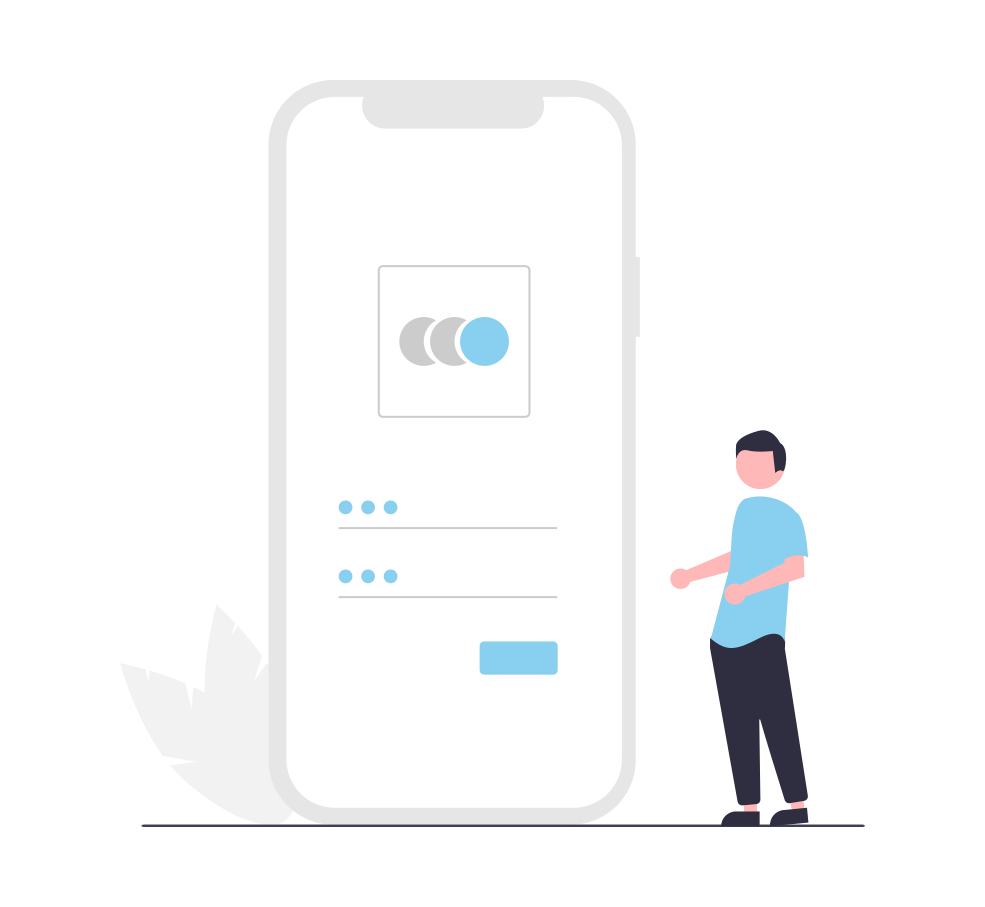
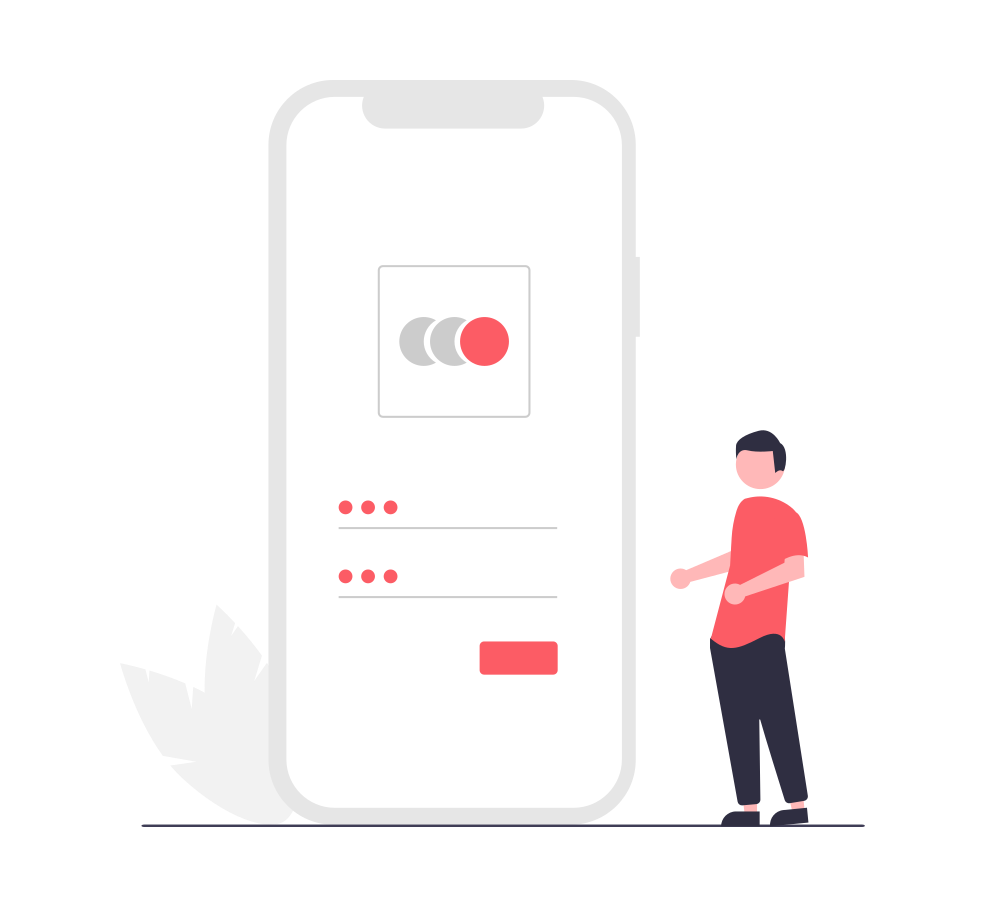
Fixed Some problems

diff --git a/components/BottomNav.js b/components/BottomNav.js
@@ -1,0 +1,127 @@
+import { StyleSheet, Text, View, TouchableOpacity } from 'react-native'
+import React from 'react'
+import { Icon } from "react-native-elements";
+import { useNavigation, useRoute } from '@react-navigation/native'
+import { auth } from '../firebase';
+
+const BottomNav = () => {
+    const navigation = useNavigation();
+    const route = useRoute();
+    return (
+        <View style={styles.container}>
+            <View style={styles.bottomNav}>
+                <TouchableOpacity style={styles.bottomNavItem}>
+                    <Icon
+                        style={styles.icon}
+                        color={route.name != "Home" ?
+                            '#000' :
+                            '#ff7f77'
+                        }
+                        reverseColor
+                        name="home"
+                        type="font-awesome"
+                        size={35}
+                        onPress={() => {
+                            if (route.name != "Home") {
+                                navigation.replace("Home")
+                            }
+                        }}
+                    />
+                </TouchableOpacity>
+                <TouchableOpacity
+                    onPress={() => navigation.replace("AddProduct")}
+                    style={route.name === "AddProduct" ?
+                        [styles.SemiRed, styles.bottomNavItemAdd]
+                        :
+                        [styles.bottomNavItemAdd, styles.bottomNavItemAddNot]
+                    }>
+                    <Icon
+                        style={styles.iconPlus}
+                        reverseColor
+                        name="plus"
+                        type="font-awesome"
+                        size={35}
+                    />
+                </TouchableOpacity>
+                <View>
+                    {!auth.currentUser ? (
+                        <>
+                            <Icon
+                                style={styles.icon}
+                                reverseColor
+                                name="login"
+                                type="Entypo"
+                                size={35}
+                                onPress={() => navigation.replace("Login")}
+                            />
+                        </>
+                    ) : (
+                        <>
+                            <TouchableOpacity style={styles.bottomNavItem}>
+                                <Icon
+                                    style={styles.icon}
+                                    color={route.name === "Option" ?
+                                        '#000' :
+                                        '#ff7f77'
+                                    }
+                                    reverseColor
+                                    name="user"
+                                    type="font-awesome"
+                                    size={35}
+                                    onPress={() => navigation.replace("Option")}
+                                />
+                            </TouchableOpacity>
+                        </>
+                    )}
+                </View>
+            </View>
+        </View >
+    )
+}
+
+export default BottomNav
+
+const styles = StyleSheet.create({
+    container: {
+        flex: 0.05,
+        justifyContent: "center",
+        alignItems: "center",
+    },
+    bottomNav: {
+        flexDirection: "row",
+        justifyContent: "space-around",
+        alignItems: "center",
+        height: "100%",
+        width: "100%",
+        position: "absolute",
+        bottom: 0,
+    },
+    bottomNavItem: {
+        alignItems: "center",
+        justifyContent: "center",
+        color: "black",
+    },
+    bottomNavItemAdd: {
+        color: "black",
+        zIndex: 1,
+        alignItems: "center",
+        justifyContent: "center",
+        borderColor: "white",
+        borderWidth: 8,
+        paddingTop: 35,
+        paddingHorizontal: 21,
+        paddingBottom: 35,
+        borderRadius: 100,
+        marginBottom: 40,
+    },
+    bottomNavItemAddNot: {
+        backgroundColor: "#fc5c65",
+    },
+    SemiRed: {
+        backgroundColor: "#ff7f73",
+    },
+    iconPlus: {
+        color: "black",
+        zIndex: 10,
+    }
+})

diff --git a/screens/HomeScreen.js b/screens/HomeScreen.js
@@ -11,7 +11,7 @@ import {
 } from "react-native";
 import Items from "../components/Items";
 import { auth, db } from "../firebase";
-import { Icon } from "react-native-elements";
+import BottomNav from "../components/BottomNav";
 
 const wait = (timeout) => {
   return new Promise((resolve) => setTimeout(resolve, timeout));
@@ -71,54 +71,7 @@ const HomeScreen = () => {
           keyExtractor={(item, index) => index.toString()}
         />
       </View>
-      <View style={styles.bottomNav}>
-        <TouchableOpacity style={styles.bottomNavItem}>
-          <Icon
-            style={styles.icon}
-            reverseColor
-            name="home"
-            type="font-awesome"
-            size={35}
-            onPress={() => navigation.replace("Home")}
-          />
-        </TouchableOpacity>
-        <TouchableOpacity style={styles.bottomNavItemAdd}>
-          <Icon
-            style={styles.icon}
-            reverseColor
-            name="plus"
-            type="font-awesome"
-            size={35}
-            onPress={() => navigation.replace("AddProduct")}
-          />
-        </TouchableOpacity>
-        <View>
-          {!auth.currentUser ? (
-            <>
-              <Text
-                onPress={() => {
-                  navigation.replace("Login");
-                }}
-              >
-                lol
-              </Text>
-            </>
-          ) : (
-            <>
-              <TouchableOpacity style={styles.bottomNavItem}>
-                <Icon
-                  style={styles.icon}
-                  reverseColor
-                  name="user"
-                  type="font-awesome"
-                  size={35}
-                  onPress={() => navigation.navigate("Option")}
-                />
-              </TouchableOpacity>
-            </>
-          )}
-        </View>
-      </View>
+      <BottomNav />
     </SafeAreaView>
   );
 };

diff --git a/screens/Options.js b/screens/Options.js
@@ -9,6 +9,7 @@ import {
 } from "react-native";
 import { auth } from "../firebase";
 import { useNavigation } from "@react-navigation/native";
+import BottomNav from "../components/BottomNav";
 
 export default function Option() {
   const navigation = useNavigation();
@@ -64,7 +65,7 @@ export default function Option() {
           <Text style={styles.buttonText}>Sign out</Text>
         </TouchableOpacity>
         <TouchableOpacity
-          onPress={() => navigation.replace("MyProducts")}
+          onPress={() => navigation.navigate("MyProducts")}
           style={styles.button1}
         >
           <Text style={styles.buttonText}>My Products</Text>
@@ -73,6 +74,7 @@ export default function Option() {
           <Text style={styles.buttonText}>Delete Account</Text>
         </TouchableOpacity>
       </View>
+      <BottomNav />
     </SafeAreaView>
   );
 }
@@ -80,7 +82,6 @@ export default function Option() {
 const styles = StyleSheet.create({
   bigMain: {
     flex: 1,
-    backgroundColor: "#fff",
   },
   topNav: {
     marginTop: 80,
@@ -90,12 +91,10 @@ const styles = StyleSheet.create({
     marginTop: 40,
     paddingBottom: 10,
     paddingTop: 10,
-    backgroundColor: "#fc5c65",
   },
   container: {
-    paddingBottom: "90%",
     flex: 1,
-    backgroundColor: "white",
+    // paddingBottom: "90%",
     alignItems: "center",
     justifyContent: "center",
   },
@@ -103,7 +102,7 @@ const styles = StyleSheet.create({
     marginLeft: 10,
     fontSize: 30,
     fontWeight: "800",
-    color: "#fff",
+    color: "#000",
   },
   emailSec: {
     fontSize: 22,

diff --git a/components/Items.js b/components/Items.js
@@ -5,17 +5,12 @@ import { useNavigation } from '@react-navigation/native';
 const Items = (props) => {
     const navigation = useNavigation();
     return (
-        <TouchableOpacity style={styles.container}>
-            <View style={styles.inner}>
-                {/* <Image style={styles.image} source={require("../images/Login.png")} /> */}
-                <Text>{props.title}</Text>
-            </View>
+        <TouchableOpacity style={styles.container} onPress={() => {
+            navigation.navigate("ViewProduct"),
+                { screen: "ViewProduct", params: { id: props.id } }
+        }}>
+            <Text style={styles.title}>{props.title}</Text>
             <Text>{props.dis}</Text>
-            {/* //TODO: Make a TouchableOpacity */}
-            <Text onPress={() => {
-                navigation.replace("ViewProduct"),
-                    { screen: "ViewProduct", params: { id: props.id } }
-            }}>Open</Text>
         </TouchableOpacity >
     )
 }
@@ -24,16 +19,12 @@ export default Items
 
 const styles = StyleSheet.create({
     container: {
-        backgroundColor: '#D1C7C7',
+        backgroundColor: '#dba0a3',
         width: '85%',
         height: 110,
         padding: 15,
         borderRadius: 10,
-        alignItems: 'center',
-        marginTop: 40,
-    },
-    inner: {
-        // flexDirection: 'row'
+        marginTop: 30,
     },
     image: {
         width: 85,
@@ -41,6 +32,6 @@ const styles = StyleSheet.create({
         marginRight: "30%"
     },
     title: {
-        // marginLeft: "30%"
+        fontSize: 20,
     }
 })  

diff --git a/screens/AddProduct.js b/screens/AddProduct.js
@@ -4,6 +4,7 @@ import { useNavigation } from "@react-navigation/native";
 import { StyleSheet, View, TextInput, TouchableOpacity } from "react-native";
 import { auth, db } from "../firebase";
 import * as Location from 'expo-location';
+import BottomNav from "../components/BottomNav";
 
 const AddProduct = () => {
   const navigation = useNavigation();
@@ -106,6 +107,7 @@ const AddProduct = () => {
           </>
         }
       </View>
+      <BottomNav />
     </SafeAreaView>
   );
 };

diff --git a/screens/MyProducts.js b/screens/MyProducts.js
@@ -2,6 +2,7 @@ import { View, FlatList, StyleSheet, SafeAreaView, Text, Platform, Linking } fro
 import React from 'react'
 import { db, auth } from '../firebase'
 import { useNavigation } from '@react-navigation/native'
+import BottonNav from '../components/BottomNav'
 
 const MyProducts = () => {
     const navigation = useNavigation();

diff --git a/screens/LoginScreen.js b/screens/LoginScreen.js
@@ -150,7 +150,7 @@ const styles = StyleSheet.create({
     marginTop: 40,
   },
   button: {
-    backgroundColor: "#4ecdc4",
+    backgroundColor: "#fc5c65",
     width: "100%",
     padding: 20,
     borderRadius: 30,

diff --git a/screens/RegisterScreen.js b/screens/RegisterScreen.js
@@ -150,7 +150,7 @@ const styles = StyleSheet.create({
     marginTop: 40,
   },
   button: {
-    backgroundColor: "#4ecdc4",
+    backgroundColor: "#fc5c65",
     width: "100%",
     padding: 20,
     borderRadius: 30,
